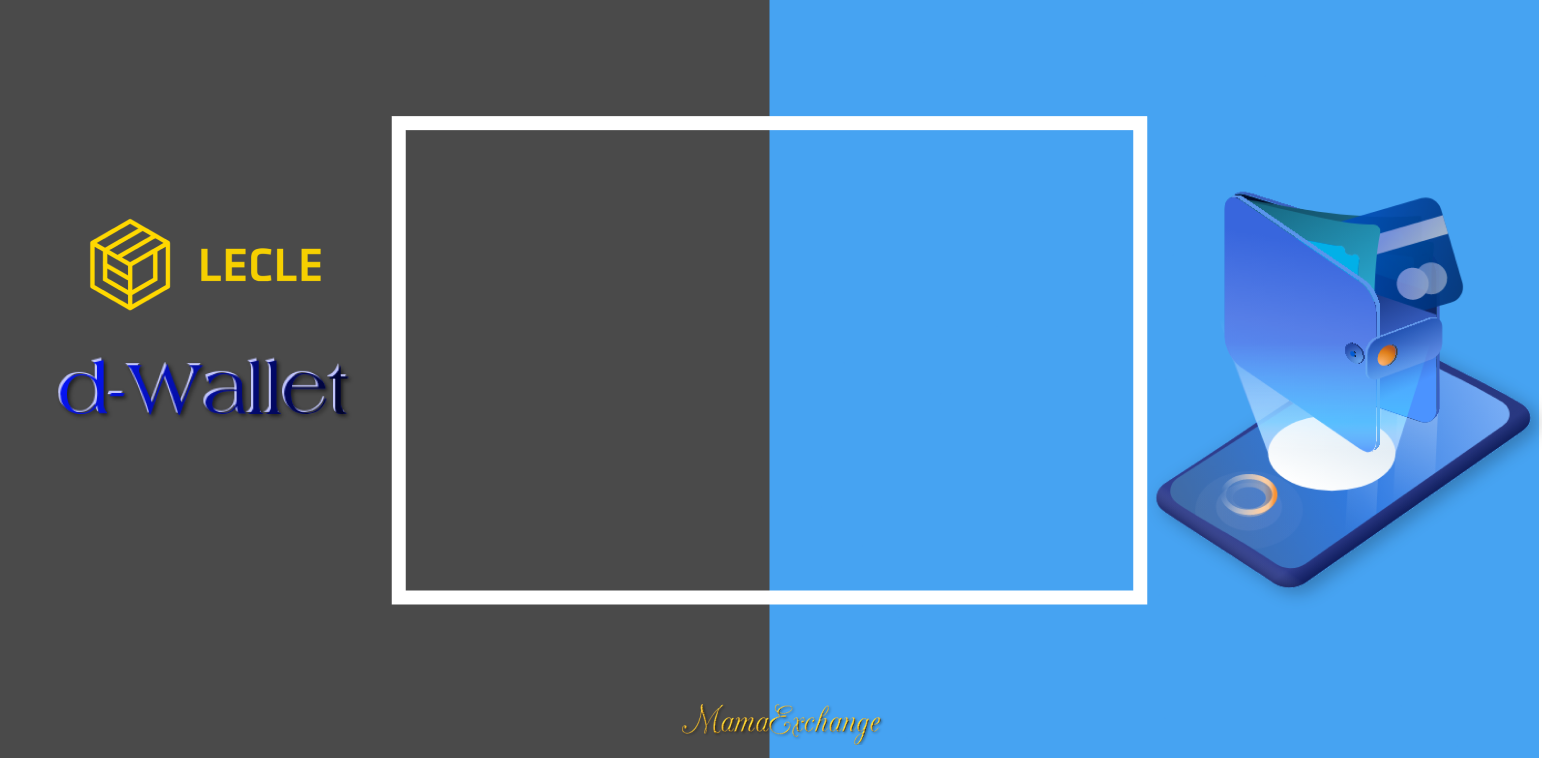
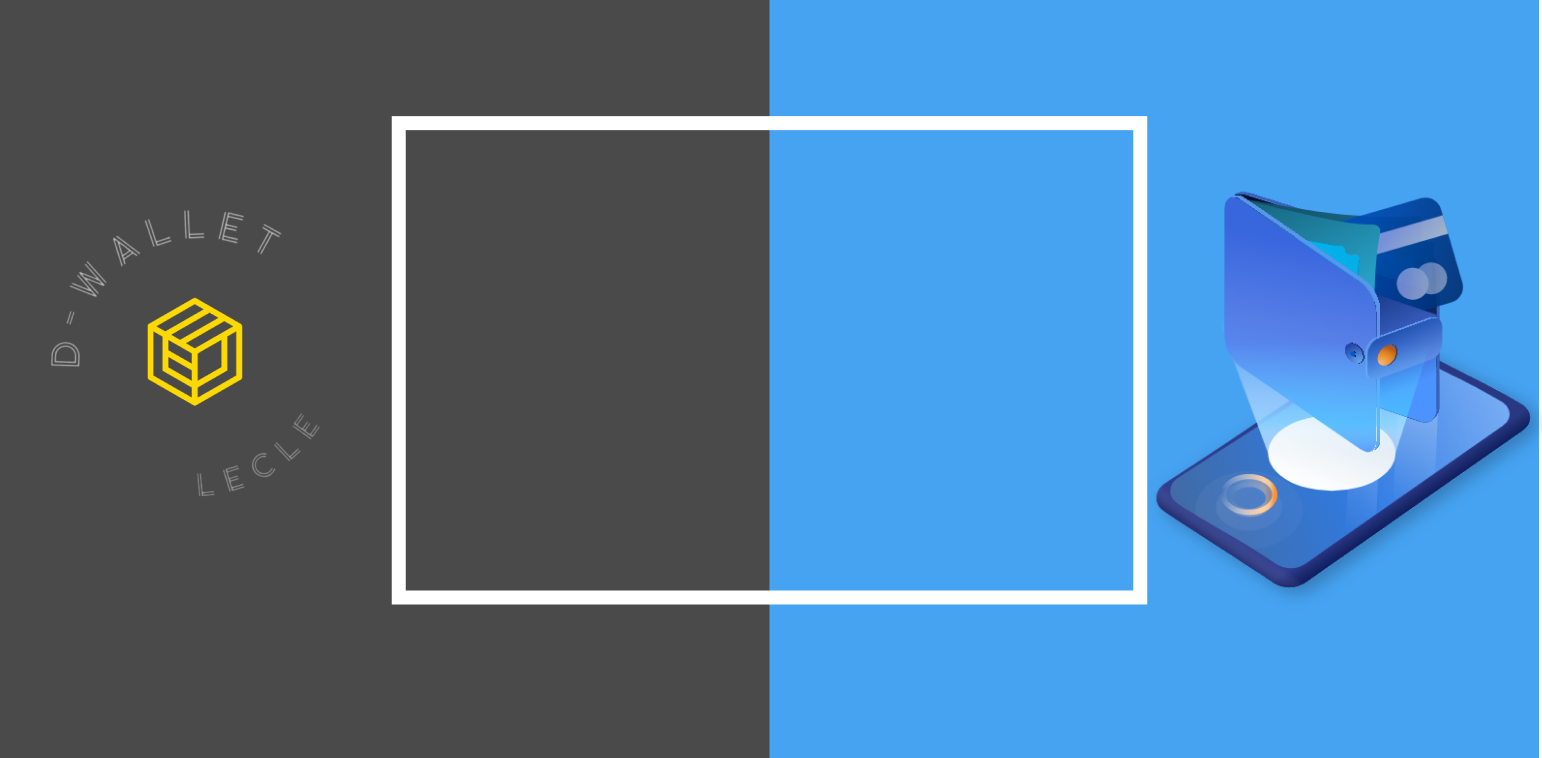
update

Changed region(s): [[0.0311, 0.2731, 0.249, 0.5765], [0.4358, 0.9406, 0.5914, 0.971], [0.1245, 0.6069, 0.1556, 0.6675]]

diff --git a/src/pages/login/index.tsx b/src/pages/login/index.tsx
@@ -10,19 +10,43 @@ import {
     GithubOutlined,
     MoreOutlined
 } from '@ant-design/icons';
-
 import styled from 'styled-components';
+import "slick-carousel/slick/slick.css";
+import "slick-carousel/slick/slick-theme.css";
+import Slider from "react-slick";
 const Login = styled.div`
-    background-image: url(/home.png);
-    background-repeat: no-repeat;
-    background-size: cover;
-    background-position: center;
+    //background-image: url(/bg3.png);
+  //  background-color: green;
+    //background-repeat: no-repeat;
+    //background-size: cover;
+    //background-position: center;
     height: 100vh;
-    width: 100%;
+    //width: 100%;
+    overflow: hidden;
+    
 `;
 const IpnutLogin = styled.div`
+    position: absolute;
+    top:0;  
+    min-width: 500px;
+ 
     text-align: center;
-    padding-top: 40vh;
+    padding-top: 10vh;
+    height: 100vh;
+    right: 0;
+    /* background-image: url('/backgroundInputLogin.png'); */
+    background-color: rgb(17,23,74, 0.2);
+    /* background-color: black ; */
+`;
+const ImgBackground = styled.img`
+        -moz-transform: scaleX(-1);
+        -o-transform: scaleX(-1);
+        -webkit-transform: scaleX(-1);
+        transform: scaleX(-1);
+        filter: FlipH;
+        -ms-filter: "FlipH";
+        min-height: 100vh;
+        object-fit: cover;
 `;
 
 export default function App() {
@@ -36,22 +60,40 @@ export default function App() {
             redirect: false,
         })
     };
+    //slider
 
+    var settings = {
+        dots: true,
+        infinite: true,
+        speed: 500,
+        fade: true,
+        cssEase: 'linear',
+        autoplay: true,
+        autoplaySpeed: 5000,
+    };
 
     return (
-        <Login >
+        <Login>
+            <Slider {...settings}>
+                <ImgBackground src='/bg1.png'></ImgBackground>
+                <ImgBackground src='/bg2.png'></ImgBackground>
+                <ImgBackground src='/bg3.png'></ImgBackground>
+            </Slider>
             <IpnutLogin>
-                <Button style={{ margin: 10 }} type="default" size='large' shape='circle' icon={<GooglePlusOutlined />} onClick={handleSubmit}></Button>
-                <Button style={{ margin: 10 }} type="default" size='large' shape='circle' icon={<FacebookOutlined />} ></Button>
+                <img src="/logoLogin.png" style={{ marginBottom: 100 }} alt="" />
+                <br></br>
+                <Button style={{ margin: 10, width: 60, height: 60 }} type="default" size='large' shape='circle' icon={<img style={{ width: 50, height: 50 }} src='https://cdn1.iconfinder.com/data/icons/google-s-logo/150/Google_Icons-09-512.png'></img>} onClick={handleSubmit}></Button>
+                <Button style={{ margin: 10, width: 60, height: 60 }} type="default" size='large' shape='circle' icon={<FacebookOutlined />} ></Button>
                 <Button style={{ margin: 10 }} type="default" size='large' shape='circle' icon={<GithubOutlined />} ></Button>
                 <Button style={{ margin: 10 }} type="default" size='large' shape='circle' icon={<MoreOutlined />} ></Button>
 
                 <Input.Group compact>
-                    <Input style={{ width: 300 }} /> <br></br>
-                    <Button style={{ width: 300 }} type="primary" >Login with email</Button>
+                    <Input style={{ width: 300, marginTop: 8, borderRadius: 5, textAlign: 'left', paddingLeft: 10, height: 40 }} /> <br></br>
+                    <Button style={{ width: 300, marginTop: 5, borderRadius: 5, height: 40 }} type="primary" >Login with email</Button>
 
                 </Input.Group>
             </IpnutLogin>
+
         </Login>
     )
 }

diff --git a/src/pages/setting/profile.tsx b/src/pages/setting/profile.tsx
@@ -6,11 +6,11 @@ import { useSession } from 'next-auth/react';
 const { Meta } = Card;
 import styled from 'styled-components';
 const Profile = styled.div`
-       display: inline-block;
-    /* text-align: center; */
-    margin-left: 25%;
+    display: inline-block;
+    /* margin-left: 25%; */
     border: 2px solid #ccc;
     height: 60vh;
+    width: 100%;
 `;
 export default function App() {
 
@@ -19,20 +19,19 @@ export default function App() {
   return (
     <Profile >
       <Card
-        style={{ width: '600px', textAlign: 'center' }}
-        cover={
-          <img
-            style={{ borderRadius: '50%', width: '200px', marginLeft: '200px', marginTop: '50px' }}
-            alt="image"
-            src={session.user.image}
-          />
-        }
+        style={{ width: '100%', textAlign: 'center' }}
       >
+        <img
+          style={{ borderRadius: '50%', width: '200px', marginTop: '30px', marginBottom: '30px' }}
+          alt="image"
+          src={session.user.image}
+        />
         <Meta
-          //avatar={<Avatar src={session.user.image} />}
+          //avatar={<Avatar src={session.user.image} />} 
           title={session.user.name}
           description={session.user.email}
         />
+
       </Card>
     </Profile >
   )

diff --git a/src/pages/ProviderApp.tsx b/src/pages/ProviderApp.tsx
@@ -38,7 +38,7 @@ export default function ProviderApp({ Component, pageProps }: AppProps) {
     return (
       <AppLayout>
         <Head>
-          <title>NextJs Antdesign Typescript</title>
+          <title>d-Wallet</title>
           <meta name="viewport" content="width=device-width, initial-scale=1" />
         </Head>
         <Component {...pageProps} />
@@ -49,7 +49,7 @@ export default function ProviderApp({ Component, pageProps }: AppProps) {
     return (
       <>
         <Head>
-          <title>NextJs Antdesign Typescript</title>
+          <title>d-Wallet</title>
           <meta name="viewport" content="width=device-width, initial-scale=1" />
         </Head>
         <Component {...pageProps} />

diff --git a/src/components/Layout.tsx b/src/components/Layout.tsx
@@ -13,7 +13,6 @@ import {
   HomeOutlined
 } from '@ant-design/icons';
 
-// import './Layout.css';
 
 const { SubMenu, Item } = Menu;
 const { Sider, Content } = Layout;
@@ -73,11 +72,9 @@ const AppLayout = (props: React.PropsWithChildren<Props>) => {
         onCollapse={onChangeIsCollapsed}
       >
         <Link href="/overview" >
-          <a>
-            <div className="App-logo" />
-            <img style={{ marginTop: 5, marginBottom: 5 }} src='/dwallet.png'></img>
-
-            <div>d-Wallet</div>
+          <a style={{ color: 'Gray' }}>
+            <img src='/LecleLogoMini.png'></img>
+            <strong>d-Wallet</strong>
           </a>
         </Link>
         <Menu

diff --git a/src/pages/wallet/index.tsx b/src/pages/wallet/index.tsx
@@ -31,6 +31,7 @@ export default function App() {
 
           <Button style={{ width: 90 }} type="primary" >Send</Button>
         </Input.Group>
+
       </Tranfer>
     </div >
   )
